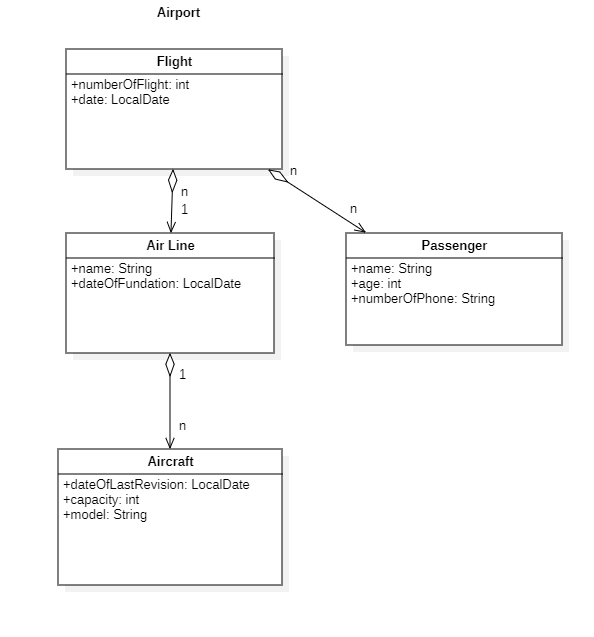
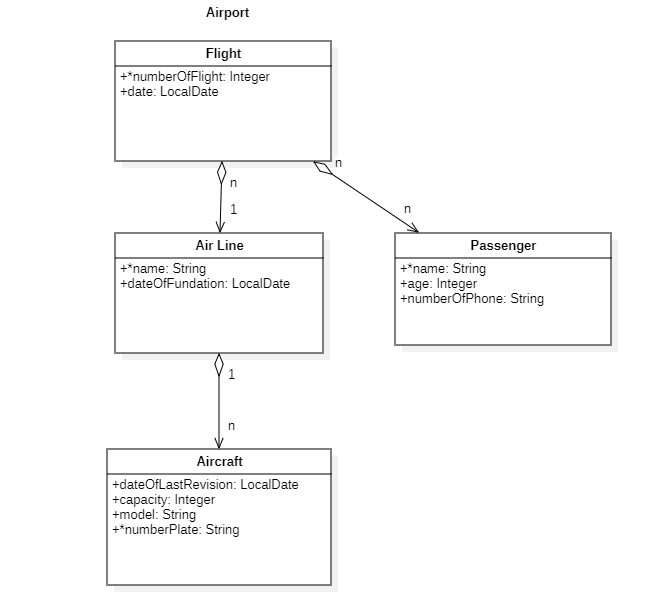
Modify model Aircarft issue #625

diff --git a/src/test/java/es/upm/miw/apaw_practice/adapters/mongodb/airport/AirportSeederService.java b/src/test/java/es/upm/miw/apaw_practice/adapters/mongodb/airport/AirportSeederService.java
@@ -33,13 +33,13 @@ public class AirportSeederService {
         LogManager.getLogger(this.getClass()).warn("------- Airport Initial Load -----------");
 
         AircraftEntity[] aircrafts = {
-                new AircraftEntity(new Aircraft(LocalDate.of(2022, 12, 23), 520, "Airbus A320")),
-                new AircraftEntity(new Aircraft(LocalDate.of(2023, 8, 7), 420, "Boeing 747")),
-                new AircraftEntity(new Aircraft(LocalDate.of(2021, 11, 23), 600, "Boeing 737")),
-                new AircraftEntity(new Aircraft(LocalDate.of(2020, 6, 19), 380, "Airbus A340")),
-                new AircraftEntity(new Aircraft(LocalDate.of(2023, 3, 5), 520, "Airbus A320")),
-                new AircraftEntity(new Aircraft(LocalDate.of(2022, 7, 25), 605, "Boeing 787")),
-                new AircraftEntity(new Aircraft(LocalDate.of(2021, 9, 12), 380, "Airbus A340"))
+                new AircraftEntity(new Aircraft(LocalDate.of(2022, 12, 23), 520, "Airbus A320", "320POY")),
+                new AircraftEntity(new Aircraft(LocalDate.of(2023, 8, 7), 420, "Boeing 747", "576TRT")),
+                new AircraftEntity(new Aircraft(LocalDate.of(2021, 11, 23), 600, "Boeing 737","234POY")),
+                new AircraftEntity(new Aircraft(LocalDate.of(2020, 6, 19), 380, "Airbus A340","764QVP")),
+                new AircraftEntity(new Aircraft(LocalDate.of(2023, 3, 5), 520, "Airbus A320","875PRT")),
+                new AircraftEntity(new Aircraft(LocalDate.of(2022, 7, 25), 605, "Boeing 787","209NGF")),
+                new AircraftEntity(new Aircraft(LocalDate.of(2021, 9, 12), 380, "Airbus A340","901LMN"))
         };
         this.aircraftRepository.saveAll(Arrays.asList(aircrafts));
 

diff --git a/src/main/java/es/upm/miw/apaw_practice/adapters/mongodb/airport/entities/AircraftEntity.java b/src/main/java/es/upm/miw/apaw_practice/adapters/mongodb/airport/entities/AircraftEntity.java
@@ -15,6 +15,7 @@ public class AircraftEntity {
     private LocalDate dateOfLastRevision;
     private Integer capacity;
     private String model;
+    private String numberPlate;
 
     public AircraftEntity(){
         //empty for framework
@@ -66,10 +67,17 @@ public class AircraftEntity {
     public boolean equals(Object obj) {
         return this == obj || obj != null && getClass() == obj.getClass() && (id.equals(((AircraftEntity) obj).id));
     }
-    public Aircraft toAircraft(){
-        return new Aircraft(dateOfLastRevision,capacity,model);
+
+    public String getNumberPlate() {
+        return numberPlate;
     }
 
+    public void setNumberPlate(String numberPlate) {
+        this.numberPlate = numberPlate;
+    }
+    public Aircraft toAircraft(){
+        return new Aircraft(dateOfLastRevision,capacity,model,numberPlate);
+    }
     @Override
     public String toString() {
         return "AircraftEntity{" +
@@ -77,6 +85,7 @@ public class AircraftEntity {
                 ", dateOfLastRevision=" + dateOfLastRevision +
                 ", capacity=" + capacity +
                 ", model='" + model + '\'' +
+                ", numberPlate='" + numberPlate + '\'' +
                 '}';
     }
 }

diff --git a/src/main/java/es/upm/miw/apaw_practice/domain/models/airport/Aircraft.java b/src/main/java/es/upm/miw/apaw_practice/domain/models/airport/Aircraft.java
@@ -7,11 +7,12 @@ public class Aircraft {
     private LocalDate dateOfLastRevision;
     private Integer capacity;
     private String model;
+    private String numberPlate;
 
     public Aircraft(){
         //empty for framework
     }
-    public Aircraft(LocalDate dateOfLastRevision, Integer capacity, String model) {
+    public Aircraft(LocalDate dateOfLastRevision, Integer capacity, String model, String numberPlate) {
         this.dateOfLastRevision = dateOfLastRevision;
         this.capacity = capacity;
         this.model = model;
@@ -41,12 +42,20 @@ public class Aircraft {
         this.model = model;
     }
 
+    public String getNumberPlate() {
+        return numberPlate;
+    }
+
+    public void setNumberPlate(String numberPlate) {
+        this.numberPlate = numberPlate;
+    }
     @Override
     public String toString() {
         return "Aircraft{" +
                 "dateOfLastRevision=" + dateOfLastRevision +
                 ", capacity=" + capacity +
                 ", model='" + model + '\'' +
+                ", numberPlate='" + numberPlate + '\'' +
                 '}';
     }
 }
